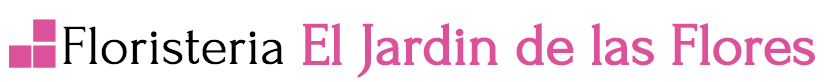
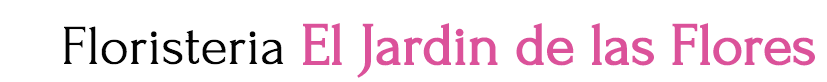
se adiciona funcionamiento en el envio de correo

Changed region(s): [[0.0, 0.5366, 0.0907, 0.8293], [0.0302, 0.2195, 0.0907, 0.5122]]

diff --git a/templates/base.html b/templates/base.html
@@ -13,7 +13,8 @@
 	<div class="encabezado grid-container">
 		<section>
 			<ul class="grid-100 mobile-grid-50">
-				<li><img class="logo" src="img/titulo.png"></li>
+				<li class="grid-10 mobile-grid-50"><img class="logo" src="img/logo.jpg" width=90px height=90px></li>
+				<li class="gird-90 mobile-grid-50"><img class="logo" src="img/titulo.png"></li>
 			</ul>
 		</section>
 	</div>
@@ -21,10 +22,10 @@
 	<section class="menu-nav">
 		<nav class="grid-container">
 			<ul>
-        <li class="cajon grid-10 mobile-grid-50 {% if select=='inicio' %}select{% endif %}"><a href="index">Inicio</a></li>
-				<li class="cajon grid-10 mobile-grid-50 {% if select=='nosotros' %}select{% endif %}"><a href="nosotros">Nosotros</a></li>
-        <li class="cajon grid-10 mobile-grid-50 {% if select=='galeria' %}select{% endif %}"><a href="galeria">Galeria</a></li>
-				<li class="cajon grid-10 mobile-grid-50 {% if select=='contacto' %}select{% endif %}"><a href="contacto">Contactanos</a></li>
+        <li class="cajon grid-20 mobile-grid-50 {% if select=='inicio' %}select{% endif %}"><a href="index">Inicio</a></li>
+				<li class="cajon grid-20 mobile-grid-50 {% if select=='nosotros' %}select{% endif %}"><a href="nosotros">Nosotros</a></li>
+        <li class="cajon grid-20 mobile-grid-50 {% if select=='galeria' %}select{% endif %}"><a href="galeria">Galeria</a></li>
+				<li class="cajon grid-20 mobile-grid-50 {% if select=='contacto' %}select{% endif %}"><a href="contacto">Contactanos</a></li>
 			</ul>
 		</nav>
 	</section>

diff --git a/templates/contacto.html b/templates/contacto.html
@@ -4,6 +4,9 @@
   <img src="img/flower-vase-438461_1280.jpg" style="height:50%; width:45%;">
 {% endblock %}
 {% block article %}
+    {% if mensaje %}
+        <h2>Tu mensaje ha sido enviado, en breve nos pondremos en contacto contigo. Gracias por confiar en nosotros</h2>
+    {% endif %}
 		<section class="grid-50 mobile-grid-50">
 			<article>
 				<h3>Puedes visitarnos en</h3>
@@ -17,7 +20,7 @@
 			</article>
 		</section>
 		<div class="formulario grid-50 mobile-grid-50">
-			<form name="contactform" method="post" action="send_form_email.php"> 
+			<form name="contactform" method="post" action="envio_mensaje"> 
 			<table width="450px"><!---Este tamaño en px es personalizable -->
 			<tr>
 			 <td valign="top">

diff --git a/static/css/site.css b/static/css/site.css
@@ -19,6 +19,7 @@
 	margin-right: 5px;
 	border-radius: 4.2px;
 	color: #000;
+  text-align: center;
 
 }
 .contenido{

diff --git a/flores.py b/flores.py
@@ -1,6 +1,7 @@
 import cherrypy
 import os.path
 import sqlite3
+import correo
 from jinja2 import Environment, FileSystemLoader
 from auth import AuthController, require, member_of, name_is
 
@@ -31,6 +32,14 @@ class Root(object):
     def contacto(self):
         tmpl = env.get_template('contacto.html')
         return tmpl.render(title='Contactanos', select='contacto')
+
+    @cherrypy.expose
+    def envio_mensaje(self, **params):
+        dic = cherrypy.request.body.params
+        msg = "Nombre: "+dic['first_name']+" "+dic['last_name']+"\n telefono: "+dic['telephone']+"\n correo "+dic['email']+"\n"+dic['message']
+        correo.mensaje(msg)
+        tmpl = env.get_template('contacto.html')
+        return tmpl.render(title='Contactanos', select='contacto', mensaje=True)
 
     @require()
     @cherrypy.expose

diff --git a/correo.py b/correo.py
@@ -1,0 +1,23 @@
+import smtplib
+
+def mensaje(msg):
+    print msg
+    fromaddr = 'parapruebasfab@gmail.com'
+    toaddrs  = 'fab7696650@gmail.com'
+    # Credentials (if needed)
+    username = 'parapruebasfab@gmail.com'
+    password = 'AFmedellin48'
+    mensaje = '''\\
+    From: parapruebasfab@gmail.com
+    Subject: contacto
+
+    '''
+    mensaje = mensaje+"\n"+msg
+
+    # The actual mail send
+    server = smtplib.SMTP('smtp.gmail.com', 587)
+    server.ehlo()
+    server.starttls()
+    server.login(username,password)
+    server.sendmail(fromaddr, toaddrs, mensaje)
+    server.close()
